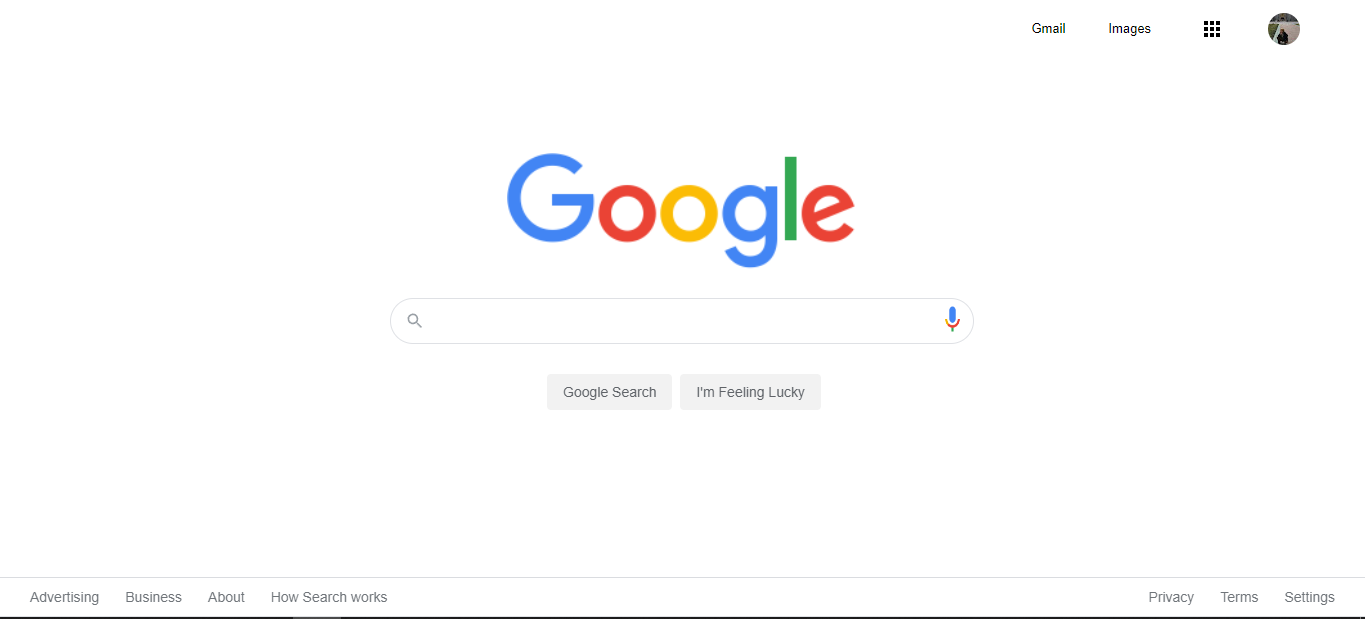
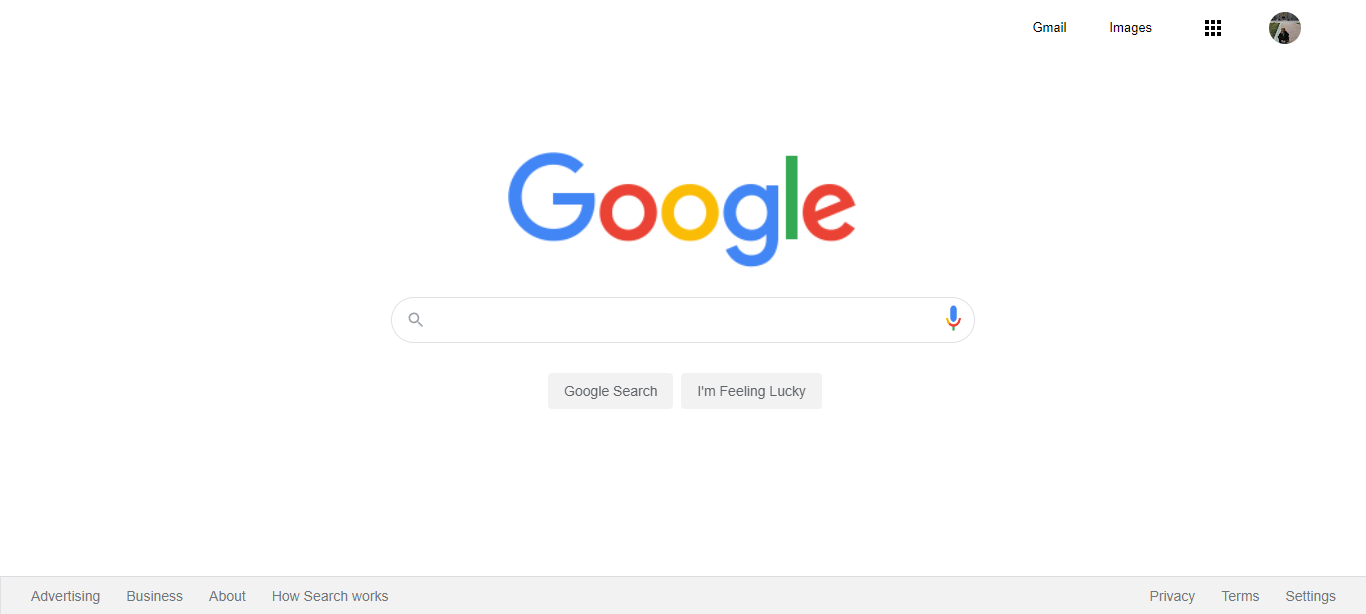
Google ana sayfa görünümü tamamlandı

diff --git a/style.css b/style.css
@@ -165,6 +165,7 @@
     width: 100%;
     margin-left: -8px;
     line-height: 10px;
+    background-color: #f2f2f2 ;
   }
   
   .footerli {

diff --git a/README.md b/README.md
@@ -9,5 +9,3 @@ Kodluyoruz CSS dersinin son ödevinde bizlere verilmiş olan Google Ana Sayfa ta
 5. Fotter kısmında list noktaları kaldırılıp background color değiştirildi.
 
 Bizden istenilen adımları tek tek yaparak tasarımı olduğunca Google Ana Sayfasına benzettim.
-
-![alt text for screen readers](/assets/web_gorunum.png "Text to show on mouseover")
